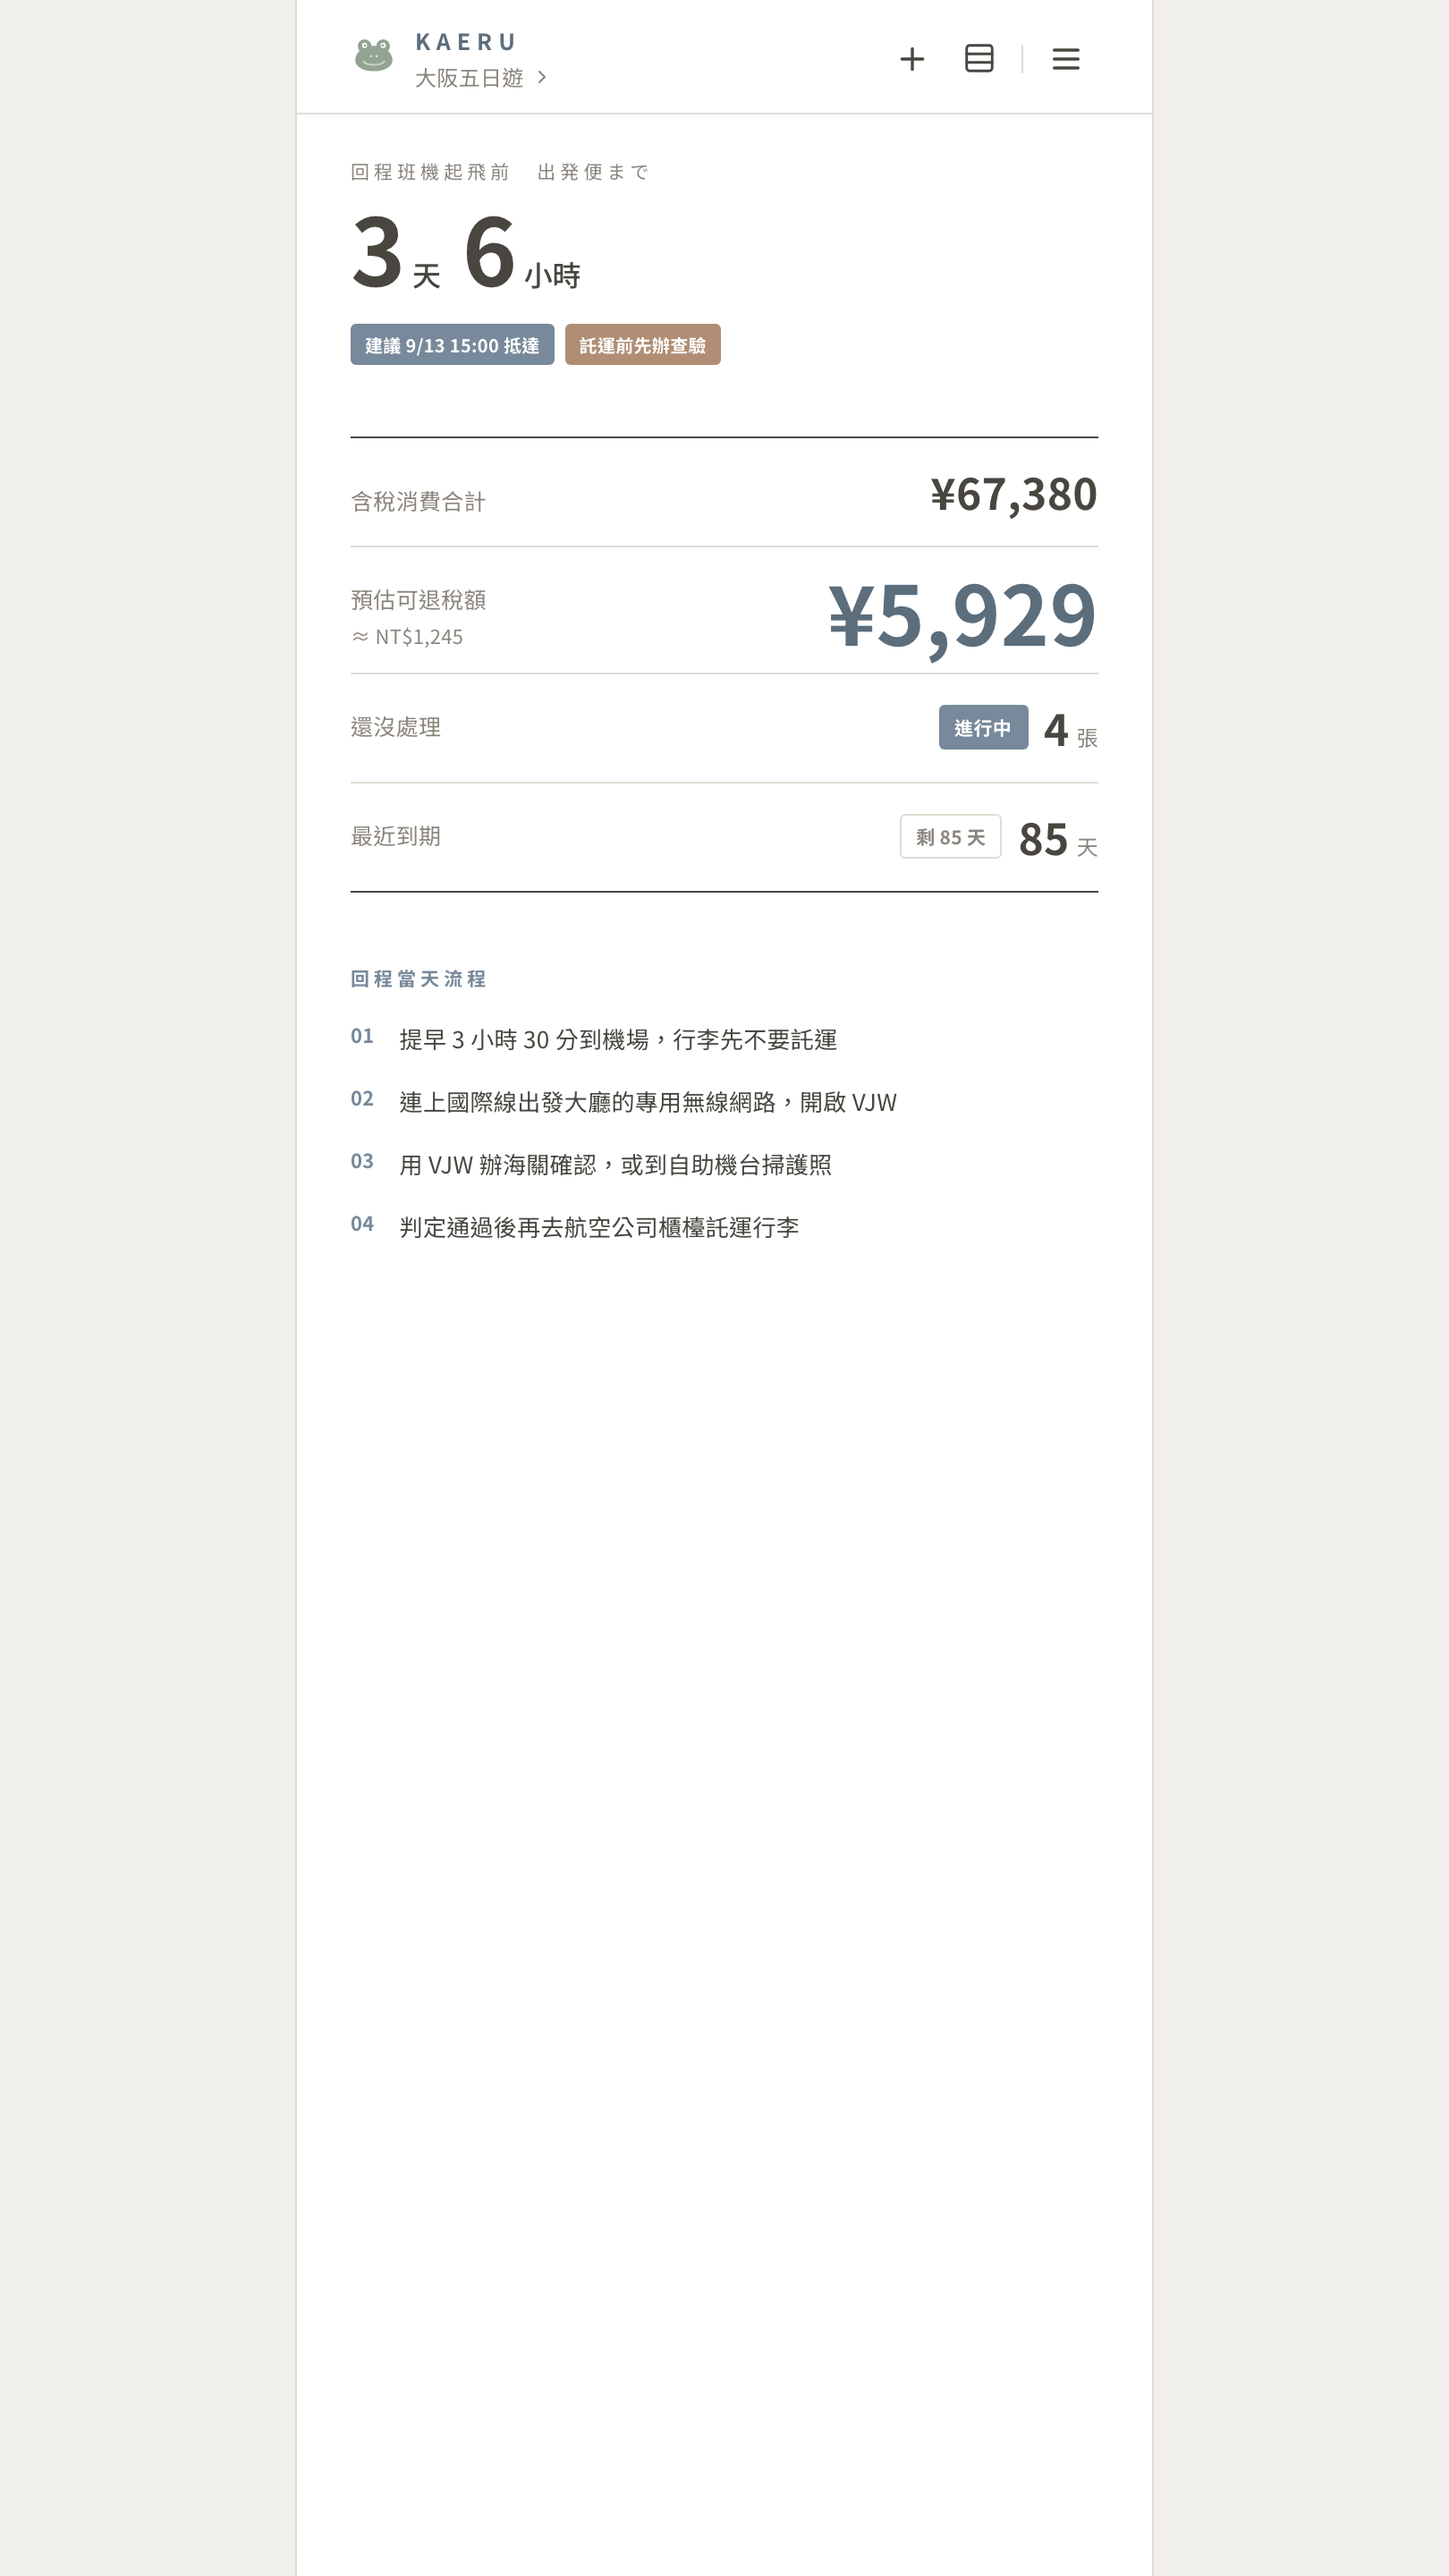
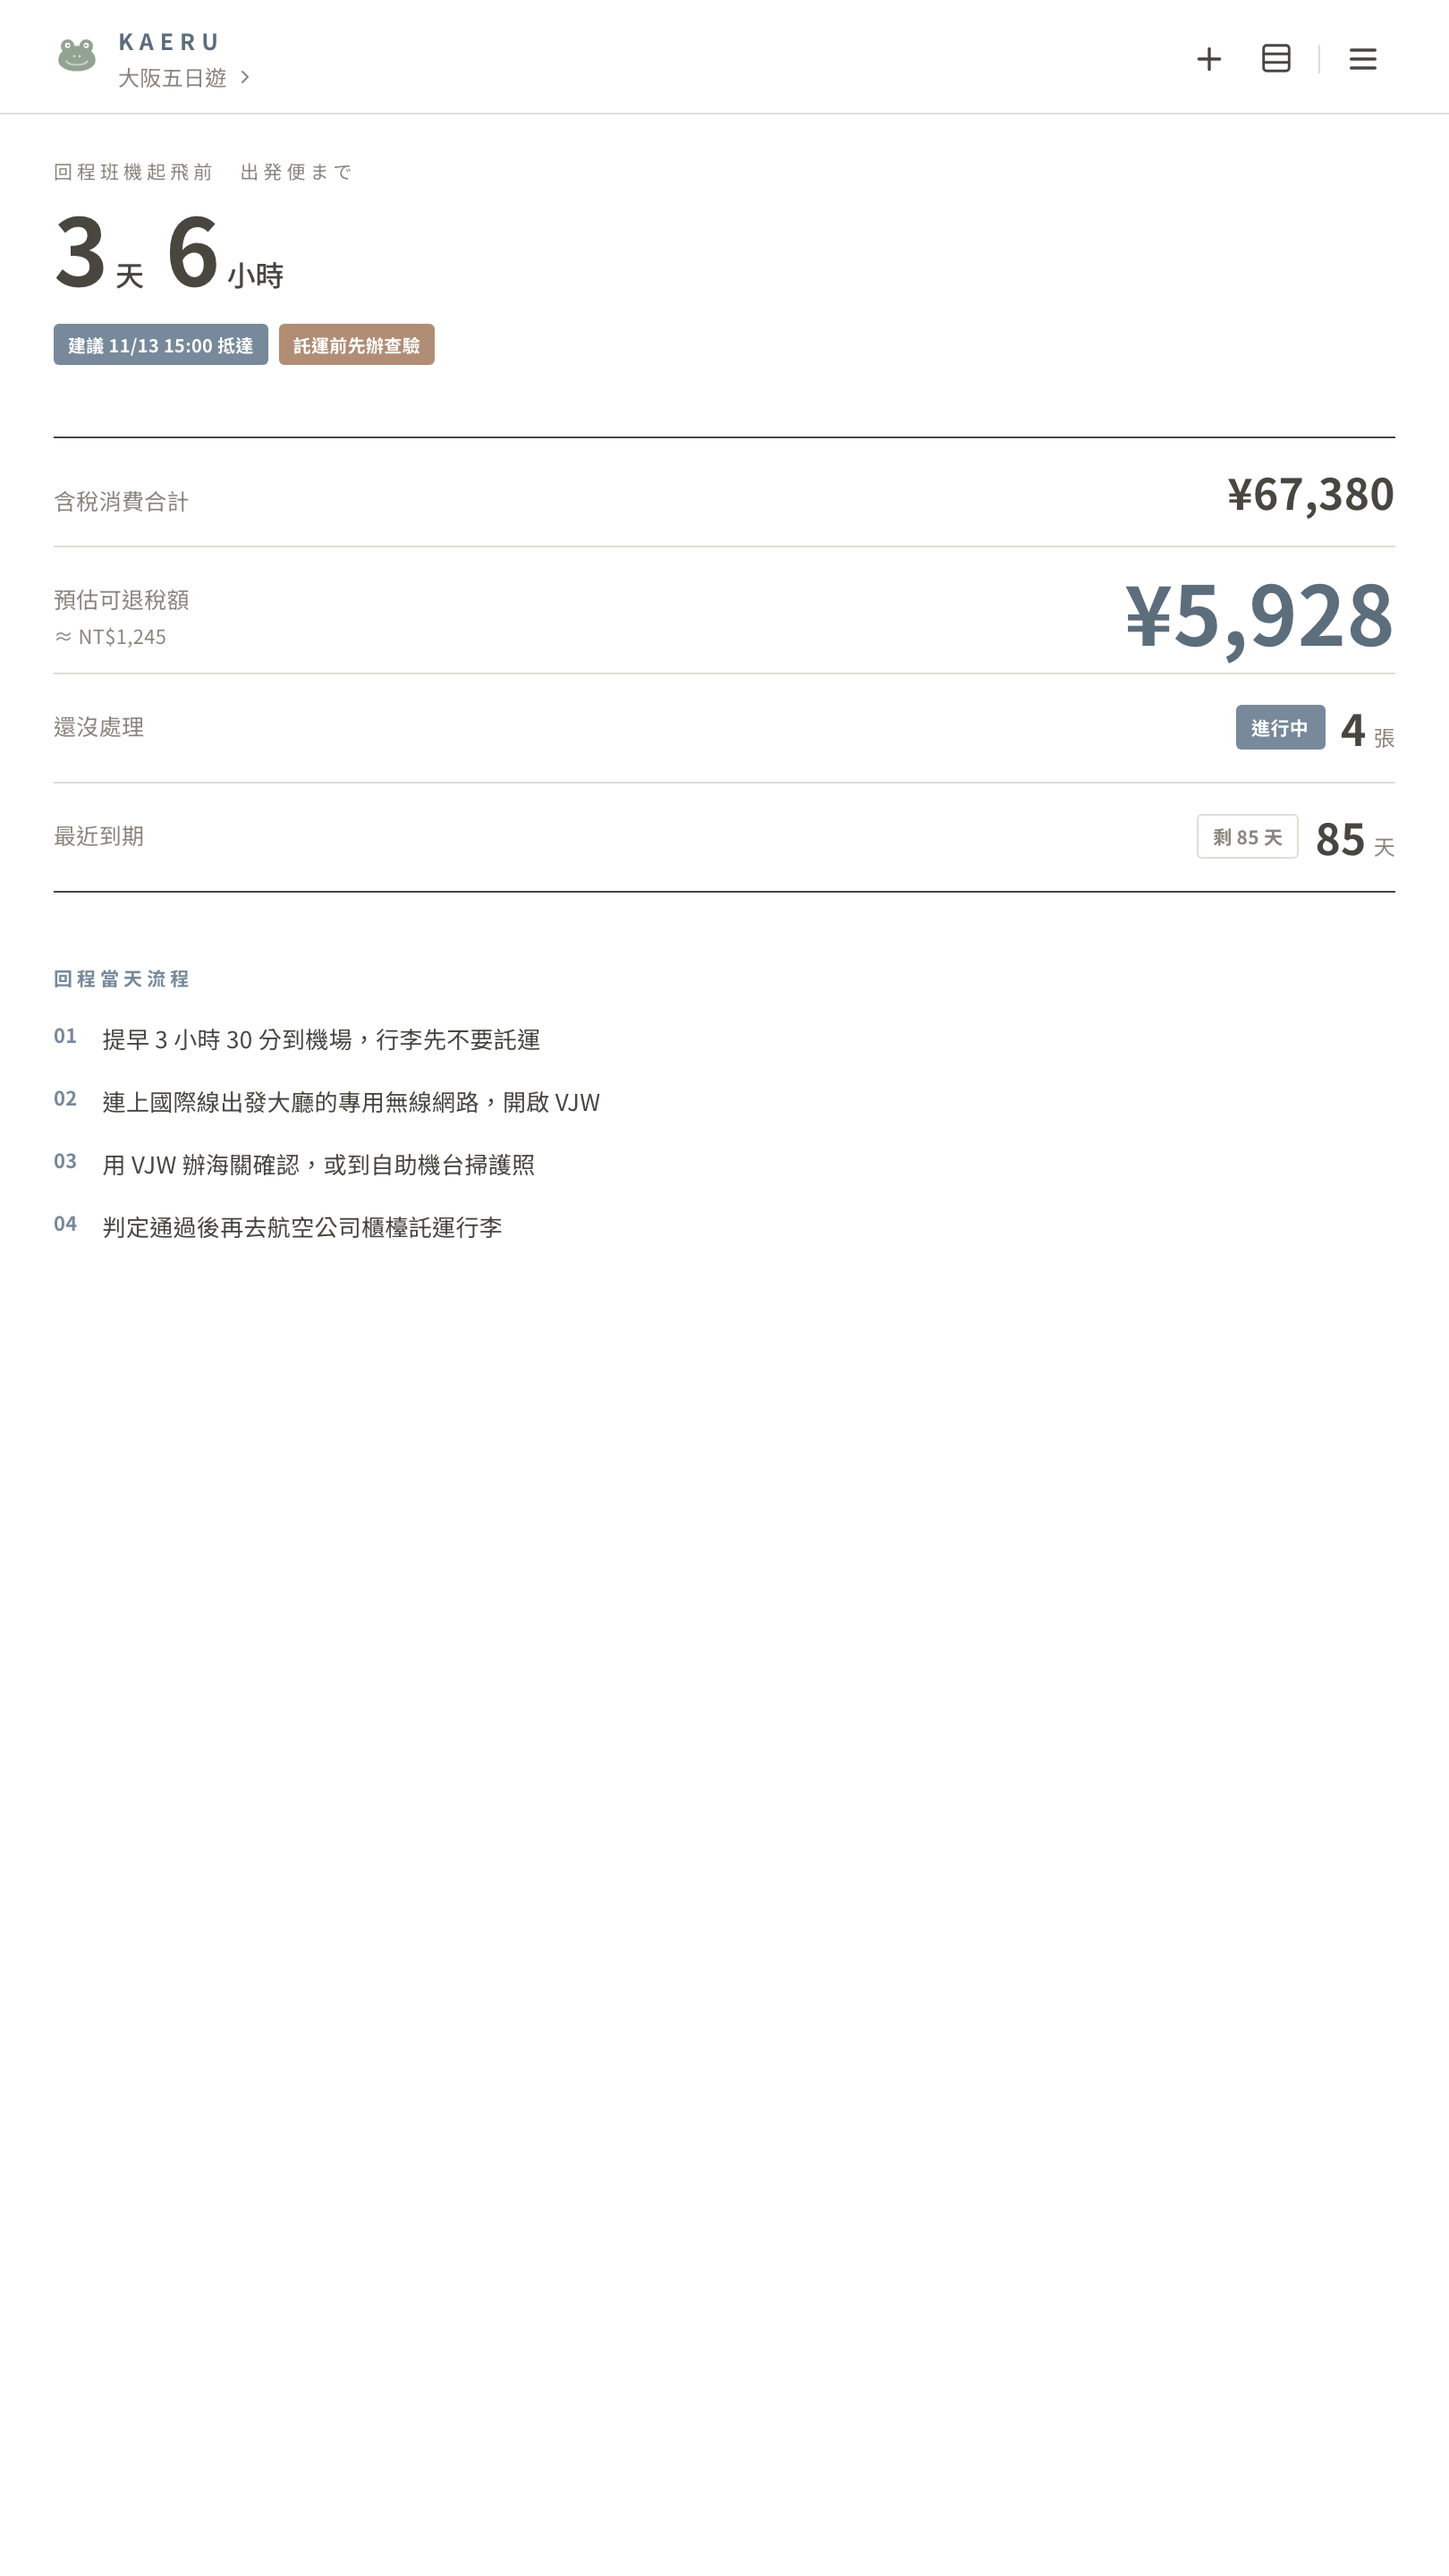
上架截圖固定時間在回程前 3 天 6 小時、鎖日本時區，補首次開啟介紹截圖
之前靠手動把行程日期往後挪，日期一過首頁就變成「已出境」，倒數和
回程當天流程都不見。改用 page.clock 固定「現在」，哪天跑都一樣。
09-intro.png 是備選，Play 手機截圖最多 8 張，上傳時要換掉其中一張。

diff --git a/e2e/generate-store-screenshots.spec.js b/e2e/generate-store-screenshots.spec.js
@@ -13,6 +13,13 @@ fs.mkdirSync(OUT_DIR, { recursive: true });
 
 const trip = { id: 't1', name: '大阪五日遊', departure: '2026-11-13T18:30', airport: 'KIX' };
 
+// 截圖裡的「現在」固定在回程前 3 天 6 小時，不跟著真實時間走——之前
+// 是手動把行程日期往後挪，日期一過首頁就變成「已出境」，倒數跟回程
+// 當天流程全部不見。時區也一併鎖在日本，departure 是不帶時區的當地
+// 時間，跑截圖的機器在哪個時區都不該影響倒數。
+const FIXED_NOW = new Date('2026-11-10T12:30:00+09:00');
+const TIMEZONE = 'Asia/Tokyo';
+
 const items = [
   {
     id: 'r1',
@@ -78,9 +85,10 @@ const photos = Object.fromEntries(
 // 視窗、e2e 全部測試都跑這個尺寸）——用它，不是隨便挑一個手機寬度，
 // 避免踩到「螢幕比預期窄，數字被切掉」這種在真正窄螢幕手機上才會
 // 出現的排版問題。deviceScaleFactor 3 放大到 1170×2532 輸出。
-test.use({ viewport: { width: 432, height: 768 }, deviceScaleFactor: 2.5 });
+test.use({ viewport: { width: 432, height: 768 }, deviceScaleFactor: 2.5, timezoneId: TIMEZONE });
 
 test('產生 Play Store 上架截圖', async ({ page }) => {
+  await page.clock.setFixedTime(FIXED_NOW);
   await seedTrip(page, { trips: [trip], activeId: 't1', items, photos });
   await page.goto('/');
   await page.waitForLoadState('networkidle');
@@ -147,6 +155,17 @@ test('產生 Play Store 上架截圖', async ({ page }) => {
   await page.screenshot({ path: `${OUT_DIR}/08-scenario.png` });
 });
 
+// 09 首次開啟介紹——不 seedTrip，什麼都不寫進 localStorage 才會跳介紹
+// （跟 e2e/intro.spec.js 同一個做法）。Play 手機截圖最多 8 張，這張是
+// 備選，上傳時要拿它換掉其中一張。
+test('產生首次開啟介紹截圖', async ({ page }) => {
+  await page.clock.setFixedTime(FIXED_NOW);
+  await page.goto('/');
+  await page.waitForLoadState('networkidle');
+  await page.getByText('日本退稅小幫手').waitFor();
+  await page.screenshot({ path: `${OUT_DIR}/09-intro.png` });
+});
+
 // 平板截圖：跟手機那組共用同一份種子資料，但用真正的平板寬度（不是把
 // 手機截圖硬拉大）——這個 App 過了 480px 就鎖寬置中、兩側留白，這組
 // 截圖故意用比 480 寬的視窗，如實呈現「在平板上長怎樣」，不是假裝成
@@ -164,7 +183,9 @@ for (const size of TABLET_SIZES) {
     const page = await browser.newPage({
       viewport: { width: size.width, height: size.height },
       deviceScaleFactor: size.scale,
+      timezoneId: TIMEZONE,
     });
+    await page.clock.setFixedTime(FIXED_NOW);
     await seedTrip(page, { trips: [trip], activeId: 't1', items, photos });
     await page.goto('/');
     await page.waitForLoadState('networkidle');
